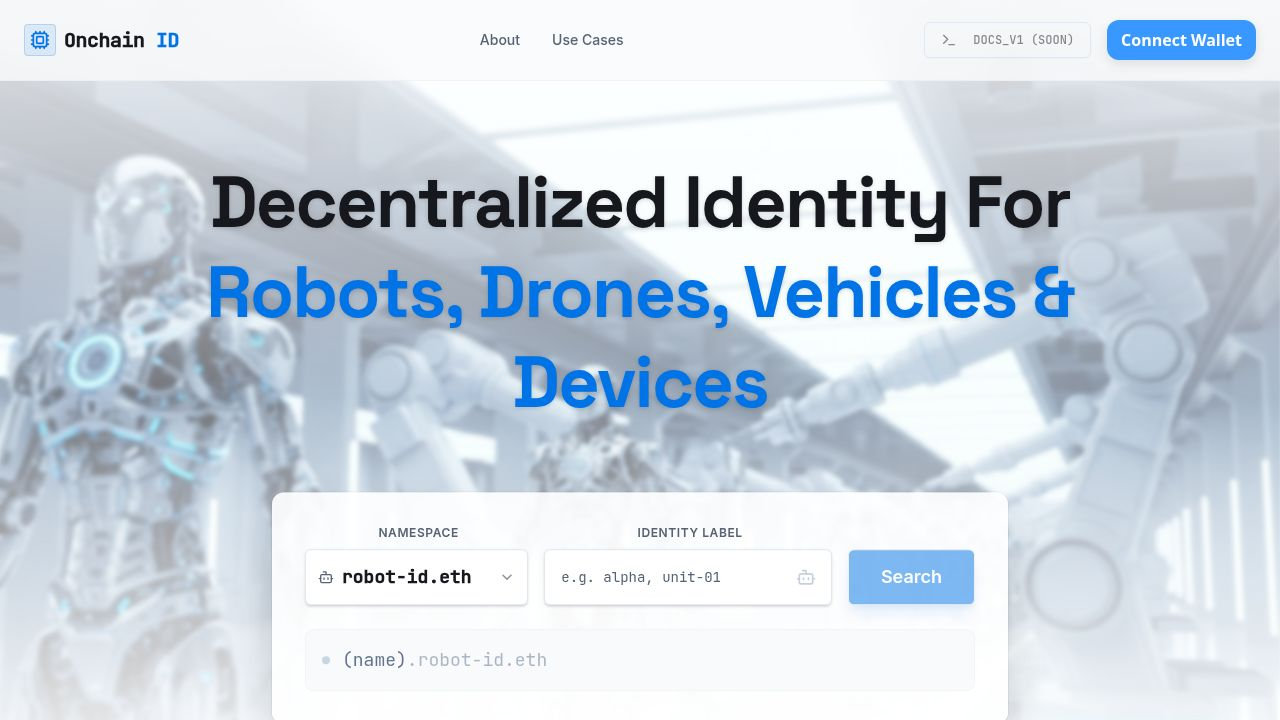
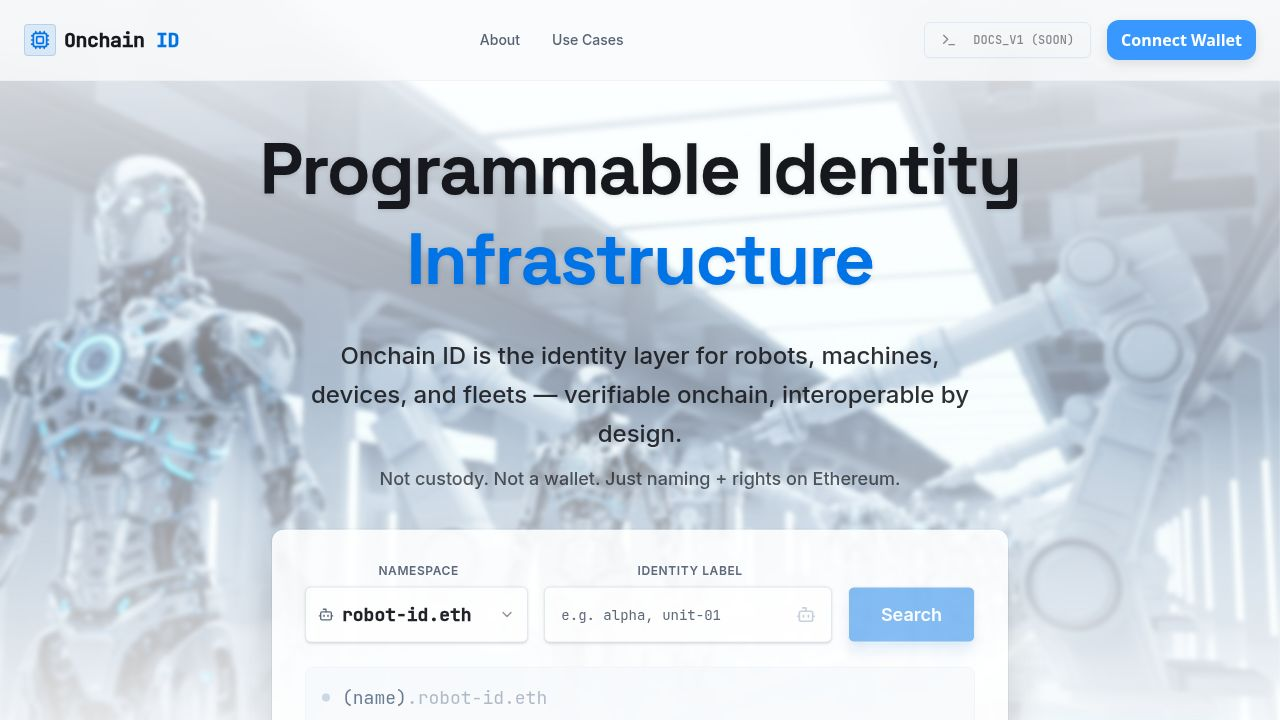
Improve text visibility on mobile devices
Adjust responsive text sizing in Home.tsx for mobile screens.

Replit-Commit-Author: Agent
Replit-Commit-Session-Id: 85a674c6-3517-4780-aa80-2c445b0ae4fa
Replit-Commit-Checkpoint-Type: full_checkpoint
Replit-Commit-Event-Id: a537f957-f840-47d7-a084-0e6289b2448a
Replit-Commit-Screenshot-Url: https://storage.googleapis.com/screenshot-production-us-central1/c4c9e3a7-0379-40d7-9a9a-784080d9a74f/85a674c6-3517-4780-aa80-2c445b0ae4fa/rYmzQg8
Replit-Helium-Checkpoint-Created: true

Changed region(s): [[0.1562, 0.1833, 0.8438, 0.4583], [0.1875, 0.6417, 0.8125, 0.9778], [0.25, 0.4889, 0.75, 0.6111]]

diff --git a/client/src/pages/Home.tsx b/client/src/pages/Home.tsx
@@ -104,7 +104,7 @@ export default function Home() {
               initial={{ opacity: 0, y: 30 }}
               animate={{ opacity: 1, y: 0 }}
               transition={{ duration: 0.8, delay: 0.1 }}
-              className="text-5xl md:text-7xl font-display font-bold tracking-tight text-foreground leading-tight drop-shadow-sm max-w-5xl mx-auto"
+              className="text-3xl sm:text-5xl md:text-7xl font-display font-bold tracking-tight text-foreground leading-tight drop-shadow-sm max-w-5xl mx-auto"
             >
               Programmable Identity <br />
               <span className="text-primary">
